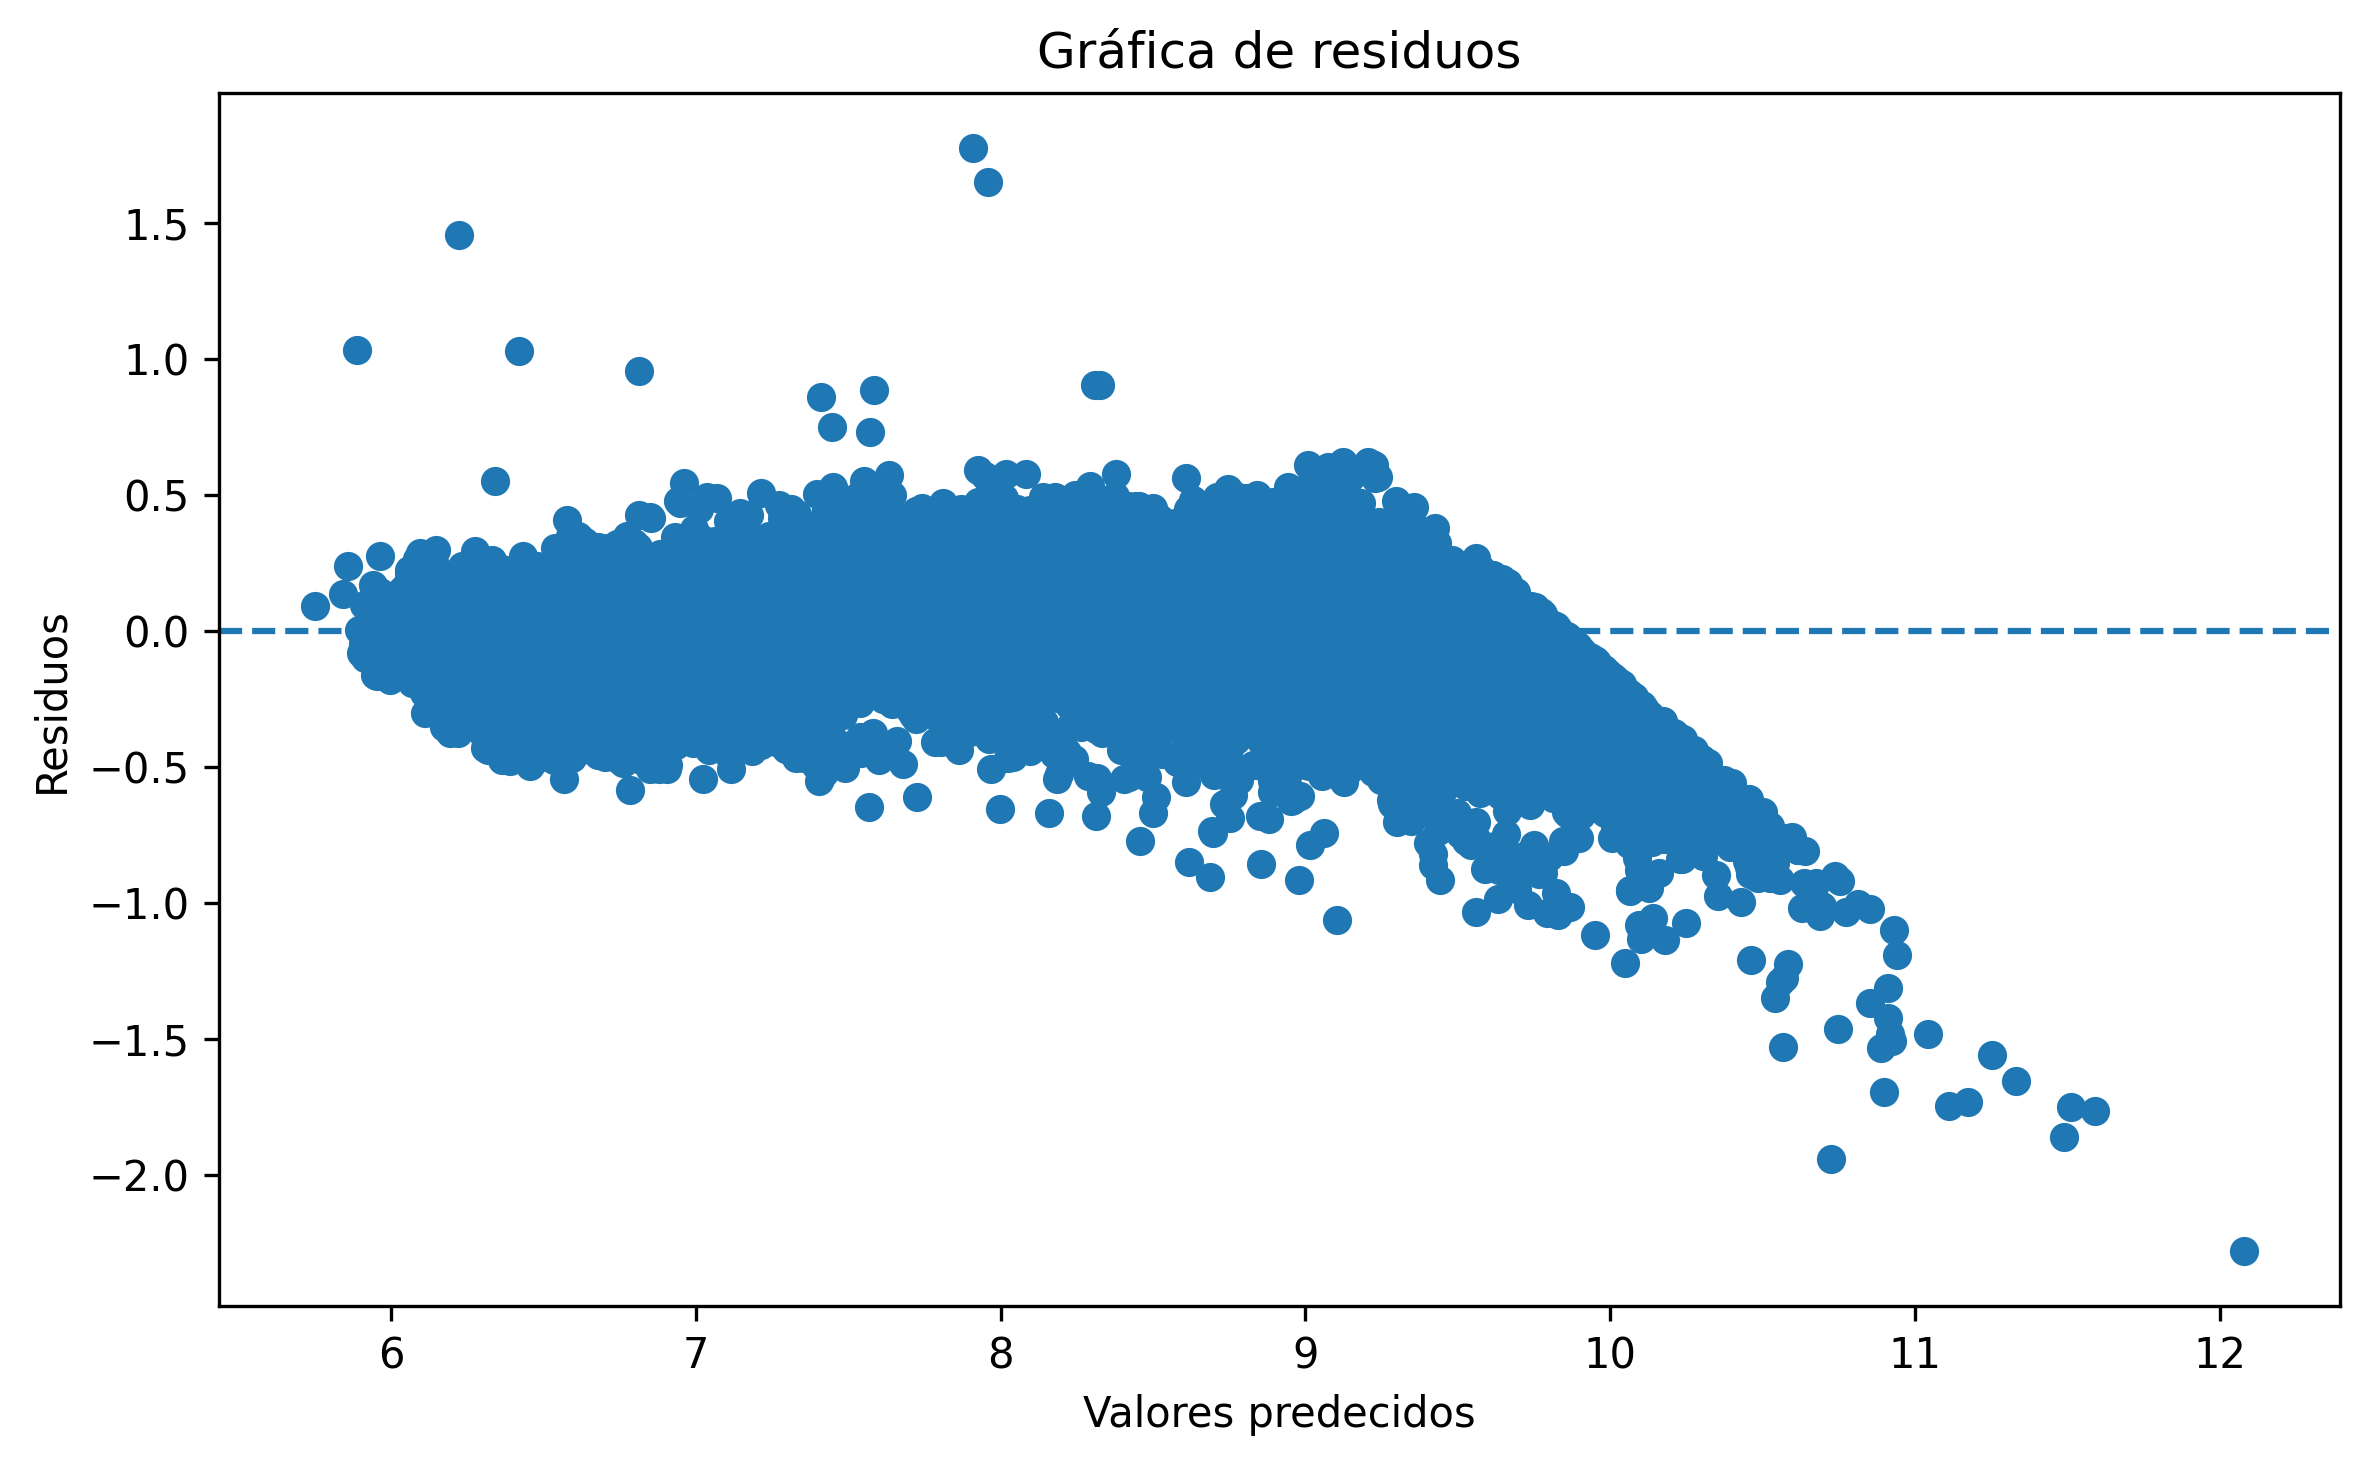
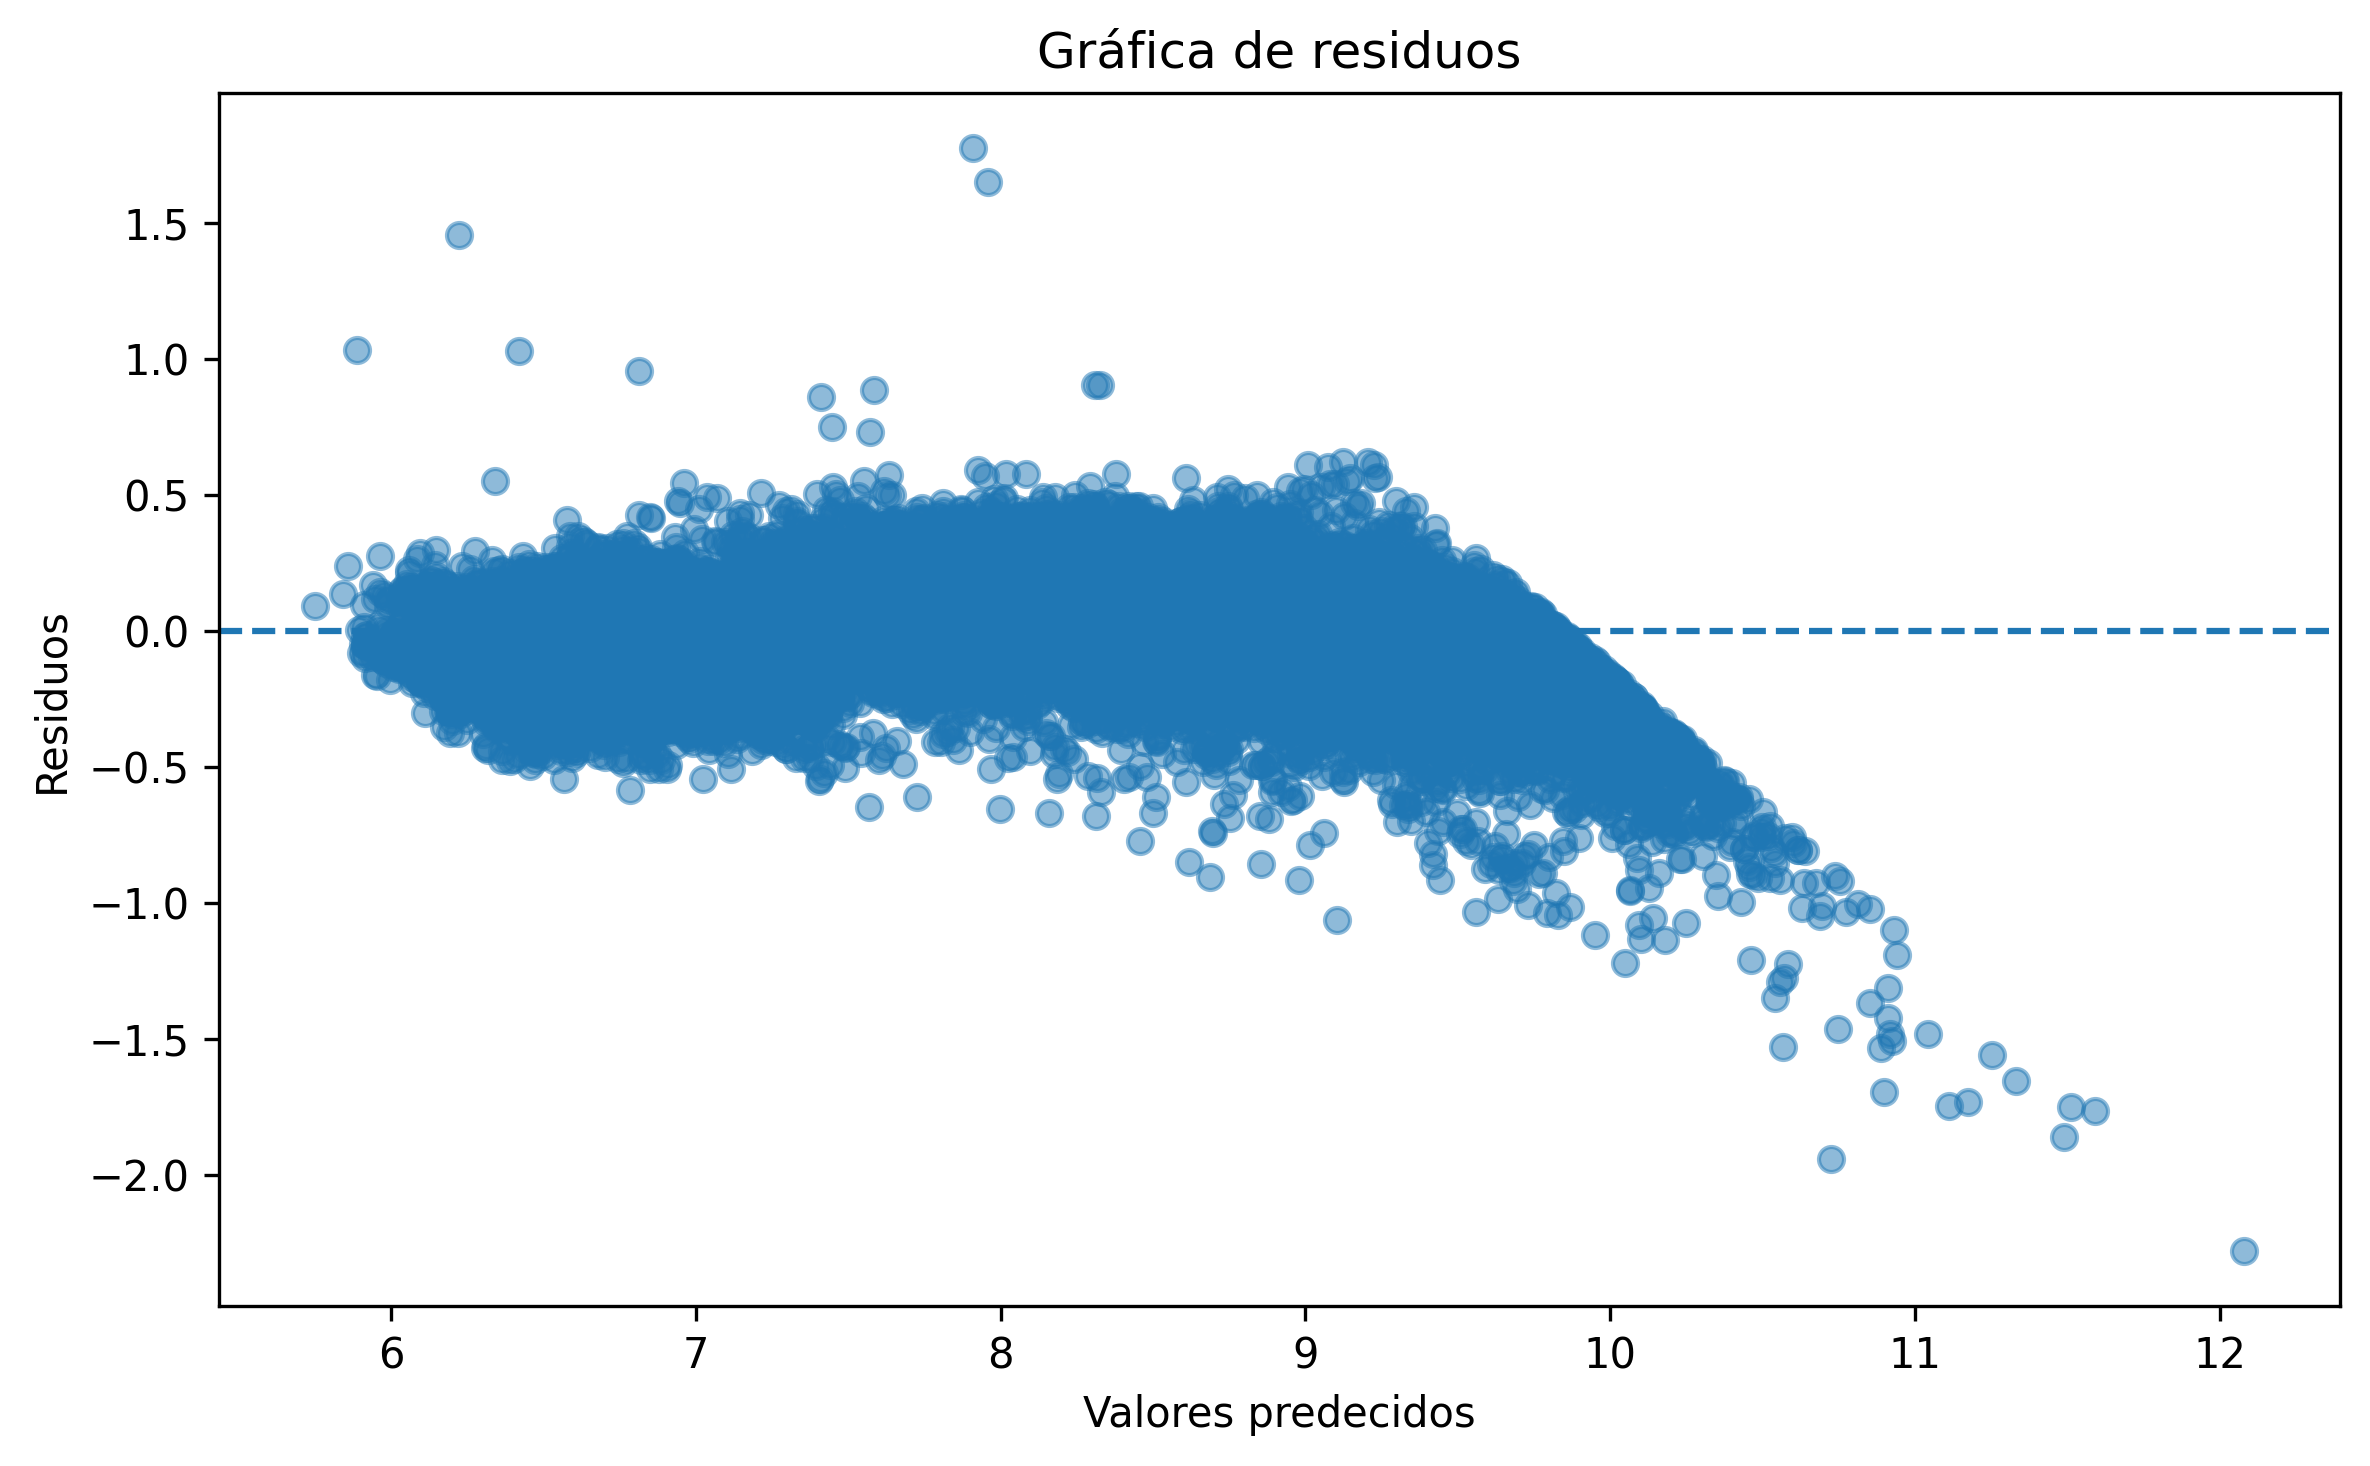
He terminado el ejercicio 3

diff --git a/practica_final_cotillas_villa_mikel/ejercicio3_regresion_multiple.py b/practica_final_cotillas_villa_mikel/ejercicio3_regresion_multiple.py
@@ -79,19 +79,30 @@ def regresion_lineal_multiple(X_train, y_train, X_test):
     - np.linalg.lstsq es numéricamente más estable que invertir directamente.
     """
 
-    # TODO: Paso 1 — Añadir columna de unos a X_train para el intercepto β₀
-    # Pista: np.ones((n, 1)) y np.hstack([ones, X_train])
-    X_train_b = None  # ← Reemplaza None con tu implementación
+    ## ¿Por qué estamos añadiendo una columna de 0s? Porque el coeficiente implícito del 
+    ## intercepto es 1 en la ecuación que queremos resolver, es decir, la fórmula es
+    ## y = b_0 * 1 + ..., donde ese 1 es el vector de unos, y luego el intercepto se calcula
+    ## en el paso dos.
+    n = len(y_train)
+    intercepto = np.ones((n,1))
+    X_train_b = np.hstack([intercepto, X_train])  # ← Reemplaza None con tu implementación
 
-    # TODO: Paso 2 — Calcular los coeficientes β con la fórmula OLS
-    # β = (XᵀX)⁻¹ Xᵀy
-    coefs = None  # ← Reemplaza None con tu implementación
 
-    # TODO: Paso 3 — Añadir columna de unos a X_test de la misma forma
-    X_test_b = None  # ← Reemplaza None con tu implementación
+    X_train_b_transpose = X_train_b.T
+    X_train_b_transpose_times_X_train_b = np.matmul(X_train_b_transpose, X_train_b)
+    inverse_matrix = np.linalg.inv(X_train_b_transpose_times_X_train_b)
+    total_matrix = np.matmul(inverse_matrix, X_train_b_transpose)
+    coefs = np.matmul(total_matrix, y_train)  # ← Reemplaza None con tu implementación
 
-    # TODO: Paso 4 — Calcular predicciones ŷ = X_test_b · β
-    y_pred = None  # ← Reemplaza None con tu implementación
+    ## Este paso es necesario por la misma razón por la que añadimos un array de 1s
+    ## en el primer paso, es el coeficiente del intercepto que vamos a predecir
+    n_test = len(X_test[:,1])
+    intercepto_test = np.ones((n_test,1))
+    X_test_b = np.hstack([intercepto_test, X_test])
+
+
+    y_pred = np.matmul(X_test_b, coefs)
+
 
     return coefs, y_pred
 
@@ -115,8 +126,11 @@ def calcular_mae(y_real, y_pred):
     -------
     float — Valor del MAE
     """
-    # TODO: Implementa el MAE sin usar sklearn
-    pass
+    coeficiente = 1/len(y_real)
+    resta = y_pred - y_real
+    valores_absolutos = np.abs(resta)
+    mae = np.sum(valores_absolutos)*coeficiente
+    return mae
 
 
 def calcular_rmse(y_real, y_pred):
@@ -134,9 +148,14 @@ def calcular_rmse(y_real, y_pred):
     -------
     float — Valor del RMSE
     """
-    # TODO: Implementa el RMSE sin usar sklearn
-    pass
-
+  
+    coeficiente = 1/len(y_real)
+    y_dif = y_pred - y_real
+    suma = 0
+    for element in y_dif:
+        suma += element**2
+    rmse = np.sqrt(coeficiente*suma)
+    return rmse
 
 def calcular_r2(y_real, y_pred):
     """
@@ -155,8 +174,19 @@ def calcular_r2(y_real, y_pred):
     -------
     float — Valor del R² (entre -∞ y 1; cuanto más cercano a 1, mejor)
     """
-    # TODO: Implementa el R² sin usar sklearn
-    pass
+
+    suma_res = 0
+    suma_tot = 0
+    y_res = y_real - y_pred
+    mean_array = np.full(y_real.shape, np.mean(y_real))
+    y_tot = y_real - mean_array
+    for element_res in y_res:
+        suma_res += element_res**2
+    for element_tot in y_tot:
+        suma_tot += element_tot**2
+    
+    r2 = 1 - suma_res/suma_tot
+    return r2
 
 
 # =============================================================================
@@ -182,7 +212,19 @@ def graficar_real_vs_predicho(y_real, y_pred, ruta_salida="output/ej3_prediccion
     #   - Dibuja la línea de referencia perfecta: y = x
     #   - Añade etiquetas a los ejes y título
     #   - Guarda con plt.savefig(ruta_salida, dpi=150, bbox_inches='tight')
-    pass
+    
+    x_min = min(min(y_real),min(y_pred))
+    x_max = max(max(y_real), max(y_pred))
+    x = np.linspace(x_min, x_max, 100)
+    y = x
+    plt.scatter(y_real, y_pred, alpha = 0.6)
+    plt.plot(x, y, color = "red")
+    plt.xlabel("Valores reales")
+    plt.ylabel("Valores predecidos")
+    plt.title("Scatterplot de valores")
+    plt.tight_layout()
+    plt.savefig(ruta_salida, dpi=150, bbox_inches='tight')
+    plt.close()
 
 
 # =============================================================================
@@ -233,14 +275,14 @@ if __name__ == "__main__":
     # Mostrar resultados en consola
     # -------------------------------------------------------------------------
     print("=" * 50)
-    print("RESULTADOS — Regresión Lineal Múltiple (NumPy)")
+    print("RESULTADOS — Regresion Lineal Multiple (NumPy)")
     print("=" * 50)
     print(f"\nCoeficientes reales:   {coefs_reales}")
     print(f"Coeficientes ajustados: {coefs}")
-    print(f"\nMétricas sobre test set:")
+    print(f"\nMetricas sobre test set:")
     print(f"  MAE  = {mae:.4f}")
     print(f"  RMSE = {rmse:.4f}")
-    print(f"  R²   = {r2:.4f}")
+    print(f"  R2   = {r2:.4f}")
 
     # -------------------------------------------------------------------------
     # RESULTADO DE REFERENCIA DEL PROFESOR
@@ -257,9 +299,9 @@ if __name__ == "__main__":
 
     # Fichero de coeficientes
     with open("output/ej3_coeficientes.txt", "w") as f:
-        f.write("Regresión Lineal Múltiple — Coeficientes ajustados\n")
+        f.write("Regresion Lineal Multiple — Coeficientes ajustados\n")
         f.write("=" * 50 + "\n")
-        nombres = ["Intercepto (β₀)"] + [f"β{i+1} (feature {i+1})" for i in range(n_features)]
+        nombres = ["Intercepto (b0)"] + [f"b{i+1} (feature {i+1})" for i in range(n_features)]
         for nombre, valor in zip(nombres, coefs):
             f.write(f"  {nombre}: {valor:.6f}\n")
         f.write("\nCoeficientes reales de referencia:\n")
@@ -268,11 +310,11 @@ if __name__ == "__main__":
 
     # Fichero de métricas
     with open("output/ej3_metricas.txt", "w") as f:
-        f.write("Regresión Lineal Múltiple — Métricas de evaluación\n")
+        f.write("Regresion Lineal Multiple — Metricas de evaluacion\n")
         f.write("=" * 50 + "\n")
         f.write(f"  MAE  : {mae:.6f}\n")
         f.write(f"  RMSE : {rmse:.6f}\n")
-        f.write(f"  R²   : {r2:.6f}\n")
+        f.write(f"  R2   : {r2:.6f}\n")
 
     # Gráfico
     graficar_real_vs_predicho(y_test, y_pred)

diff --git a/practica_final_cotillas_villa_mikel/ejercicio2_inferencia.py b/practica_final_cotillas_villa_mikel/ejercicio2_inferencia.py
@@ -62,7 +62,7 @@ with open("output/ej2_metricas_regresion.txt", "w", encoding="utf-8") as f:
 
 residuos = target_test - target_predicted
 plt.figure(figsize=(8, 5))
-plt.scatter(target_predicted, residuos)
+plt.scatter(target_predicted, residuos, alpha = 0.5)
 plt.axhline(0, linestyle="--")
 plt.xlabel("Valores predecidos")
 plt.ylabel("Residuos")
